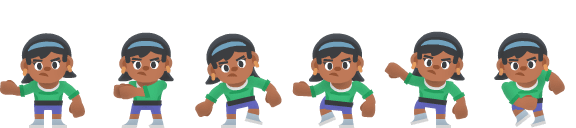
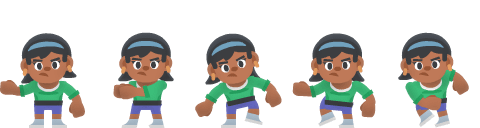
03/21/2022

diff --git a/locatingGame/src/scenes.js b/locatingGame/src/scenes.js
@@ -2035,7 +2035,7 @@ class UIScene extends Phaser.Scene {
                         let characters = creatorObj.characters;
                         let gap = width / (characters.length + 1);
 
-                        characters.forEach((chara, i) => {
+                        let charaSprites = characters.map((chara, i) => {
                             var animsCreate = () => {
                                 let frameRate = GameObjectFrame[chara].frameRate;
                                 this.anims.create({
@@ -2136,18 +2136,18 @@ class UIScene extends Phaser.Scene {
                                         .on('destroy', (form) => {
 
                                             if (form.formConfirm) {
-                                                this
-                                                    .removeInteractive()
-                                                    .play(chara + '_doubleJump');
+                                                charaSprites.forEach(chara => chara.removeInteractive());
+                                                this.play(chara + '_doubleJump');
+                                                // console.debug(charaSprites);
 
                                                 //==創建完成到大地圖
                                                 let destroyDelay = 1200;
 
                                                 scene.time.delayedCall(destroyDelay * 0.5, () => cameras.fadeOut(500, 0, 0, 0), [], this);
                                                 scene.time.delayedCall(destroyDelay, () => {
-                                                    if (1) {//===一開始不進入教學？
-                                                        scene.scene.remove();
+                                                    if (1) {//===一開始不進入教學？                                                
                                                         gameScene.scene.add(null, new UIScene('tutorial', scene), true);
+                                                        scene.time.delayedCall(destroyDelay, () => scene.scene.remove());
                                                     }
                                                     else {
                                                         gameScene.game.destroy(true, false);
@@ -2178,6 +2178,8 @@ class UIScene extends Phaser.Scene {
                                 .setScale(1.6)
                                 .setOrigin(0.45, 0.35)
                                 .setDepth(9);
+
+                            return character;
 
                         });
                     };
@@ -2292,6 +2294,7 @@ class UIScene extends Phaser.Scene {
                             const effectDir = gameObjDir + 'player/effect/';
                             const effectFrameObj = playerFrame.effect;
 
+
                             this.load.spritesheet('player_jumpDust', effectDir + 'jump_dust.png', { frameWidth: 38, frameHeight: 60 });
 
                             this.load.spritesheet('player_attackEffect', dir + 'swordSwing.png',
@@ -2300,7 +2303,13 @@ class UIScene extends Phaser.Scene {
                                 { frameWidth: effectFrameObj.jump[0], frameHeight: effectFrameObj.jump[1] });
                             this.load.spritesheet('player_runAttackEffect', dir + 'runAttackEffect.png',
                                 { frameWidth: effectFrameObj.run[0], frameHeight: effectFrameObj.run[1] });
-
+                            if (gameScene.gameData.playerStats.class)//遠程子彈
+                            {
+                                this.load.spritesheet('player_bullet1', dir + 'bullet1.png',
+                                    { frameWidth: effectFrameObj.bullet[0], frameHeight: effectFrameObj.bullet[1] });
+                                this.load.spritesheet('player_bullet2', dir + 'bullet2.png',
+                                    { frameWidth: effectFrameObj.bullet[0], frameHeight: effectFrameObj.bullet[1] });
+                            };
                         };
                         sprite();
                     };
@@ -2930,6 +2939,23 @@ class UIScene extends Phaser.Scene {
                                 repeat: 0,
                             });
 
+                            if (gameScene.gameData.playerStats.class)//遠程子彈
+                            {
+                                this.anims.create({
+                                    key: 'player_bullet1',
+                                    frames: this.anims.generateFrameNumbers('player_bullet1'),
+                                    frameRate: frameRate.attackEffect,
+                                    repeat: 0,
+                                });
+
+                                this.anims.create({
+                                    key: 'player_bullet2',
+                                    frames: this.anims.generateFrameNumbers('player_bullet2'),
+                                    frameRate: frameRate.attackEffect,
+                                    repeat: 0,
+                                });
+                            };
+
                         };
                         animsCreate();
 
@@ -3080,12 +3106,6 @@ class UIScene extends Phaser.Scene {
                                         return;
                                     };
 
-                                    //==bullet
-                                    var bullet = this.bullets.get();
-                                    if (bullet) {
-                                        bullet.body.setSize(...this.stats.bulletSize);
-                                        bullet.fire(this, this.stats.attackSpeed, this.stats.attackRange);
-                                    };
 
                                     //==anims
                                     // console.debug(this.anims);
@@ -3100,6 +3120,18 @@ class UIScene extends Phaser.Scene {
 
                                     if (currentAnims === 'player_attack' && this.anims.isPlaying) return;
                                     this.anims.play(attackAnims);
+
+                                    //==bullet
+                                    var bullet = this.bullets.get();
+                                    if (bullet) {
+                                        bullet
+                                            .setDepth(15)
+                                            .body.setSize(...this.stats.bulletSize);
+                                        bullet.fire(this, this.stats.attackSpeed, this.stats.attackRange);
+                                        if (this.stats.class)
+                                            bullet.play(isRuning ? 'player_bullet2' : 'player_bullet1', true);
+                                        // console.debug(bullet.depth);
+                                    };
 
                                 };
 
@@ -3120,14 +3152,9 @@ class UIScene extends Phaser.Scene {
                             classType: Bullet,
                             maxSize: this.player.stats.class == 0 ? 1 : 5,
                             runChildUpdate: true,
+                            // setDepth: { value: 15 },
                             // maxVelocityY: 0,
-                        }).setOrigin(1, 0).setDepth(9);
-
-                        //===init effect sprite
-                        // this.dust = this.add.sprite(0, 0)
-                        //     .setScale(2.5)
-                        //     .setOrigin(1, 0.4)
-                        //     .setDepth(9);
+                        }).setOrigin(1, 0);
 
                         this.player.attackEffect = this.add.sprite(0, 0)
                             .setScale(2)
@@ -3651,14 +3678,15 @@ class GameStartScene extends Phaser.Scene {
 
                 characters.forEach(chara => {
                     let dir = playerDir + chara + '/';
-                    const frameObj = GameObjectFrame[chara].frameObj;
+                    const playerFrame = GameObjectFrame[chara];
+                    const frameObj = playerFrame.frameObj;
+                    const effectFrameObj = playerFrame.effect;
 
                     this.load.spritesheet(chara + '_idle', dir + 'idle.png', frameObj);
                     this.load.spritesheet(chara + '_run', dir + 'run.png', frameObj);
                     this.load.spritesheet(chara + '_doubleJump', dir + 'doubleJump.png', frameObj);
                     this.load.spritesheet(chara + '_attack', dir + 'attack.png', frameObj);
-                    this.load.spritesheet(chara + '_swordSwing', dir + 'swordSwing.png', { frameWidth: 120, frameHeight: 130 });
-
+                    this.load.spritesheet(chara + '_swordSwing', dir + 'swordSwing.png', { frameWidth: effectFrameObj.attack[0], frameHeight: effectFrameObj.attack[1] });
 
                 });
 
@@ -4130,6 +4158,7 @@ class LoadingScene extends Phaser.Scene {
                     const effectDir = gameObjDir + 'player/effect/';
                     const effectFrameObj = playerFrame.effect;
 
+
                     this.load.spritesheet('player_jumpDust', effectDir + 'jump_dust.png', { frameWidth: 38, frameHeight: 60 });
 
                     this.load.spritesheet('player_attackEffect', dir + 'swordSwing.png',
@@ -4138,6 +4167,15 @@ class LoadingScene extends Phaser.Scene {
                         { frameWidth: effectFrameObj.jump[0], frameHeight: effectFrameObj.jump[1] });
                     this.load.spritesheet('player_runAttackEffect', dir + 'runAttackEffect.png',
                         { frameWidth: effectFrameObj.run[0], frameHeight: effectFrameObj.run[1] });
+
+                    if (gameData.playerStats.class)//遠程子彈
+                    {
+                        this.load.spritesheet('player_bullet1', dir + 'bullet1.png',
+                            { frameWidth: effectFrameObj.bullet[0], frameHeight: effectFrameObj.bullet[1] });
+                        this.load.spritesheet('player_bullet2', dir + 'bullet2.png',
+                            { frameWidth: effectFrameObj.bullet[0], frameHeight: effectFrameObj.bullet[1] });
+                    };
+
 
                     if (packNum == 3)
                         this.load.spritesheet('player_ultAttackEffect', effectDir + 'ult_effect.png',

diff --git a/locatingGame/src/gameObject.js b/locatingGame/src/gameObject.js
@@ -61,19 +61,19 @@ const GameObjectStats = {
         },
         femalePerson: {
             class: 1,
-            movementSpeed: 460,
+            movementSpeed: 400,
             jumpingPower: 320,
-            attackSpeed: 400,//一發持續300ms
-            attackPower: 120,
-            attackRange: 55,
-            bulletSize: [120, 130],
-            knockBackSpeed: 250,//==擊退時間固定200ms,這個速度越大擊退越遠
-            manaCost: 10,
-            manaRegen: 0.1,//per 10 ms(game update per 10ms)0.1
-            HP: 150,
-            maxHP: 150,
-            MP: 60,
-            maxMP: 60,
+            attackSpeed: 800,//一發持續300ms
+            attackPower: 80,
+            attackRange: 1000,
+            bulletSize: [30, 30],
+            knockBackSpeed: 10,//==擊退時間固定200ms,這個速度越大擊退越遠
+            manaCost: 15,
+            manaRegen: 10,//per 10 ms(game update per 10ms)0.1
+            HP: 80,
+            maxHP: 80,
+            MP: 150,
+            maxMP: 150,
         },
     },
     sidekick: {
@@ -185,29 +185,30 @@ const GameObjectFrame = {
         frameRate: {
             idle: 3,
             run: 10,
-            runAttack: 8,
+            runAttack: 10,
             attack: 10,
             specialAttack: 15,
             hurt: 8,
-            death: 6,
+            death: 4,
             jump: 4,
-            doubleJump: 3,
-            jumpAttack: 8,
+            doubleJump: 5,
+            jumpAttack: 15,
             timesUp: 4,
             cheer: 4,
             jumpDust: 15,
             attackEffect: 10,
             jumpAttackEffect: 15,
-            runAttackEffect: 8,
+            runAttackEffect: 15,
             ultAttackEffect: 7,
             pickSwing: 15,
         },
         effect: {
             attack: [120, 130],
-            jump: [150, 100],
-            run: [150, 100],
+            jump: [96, 128],
+            run: [96, 128],
             ult: [300, 150],
             pick: [120, 130],
+            bullet: [60, 60],
         },
     },
 };
@@ -445,8 +446,8 @@ const Bullet = new Phaser.Class({
         let fireDir = onXaxis ? (attacker.flipX ? -1 : 1) : 1,
             fixedRange = attacker.stats.class == 0 ? attackRange : 0,
             fireX = attacker.x + (onXaxis ? fixedRange : 0) * fireDir,
-            fireY = attacker.y + (!onXaxis ? fixedRange + 50 : 0) * fireDir;
-
+            fireY = attacker.y + (!onXaxis ? fixedRange + 50 : 10);
+        // console.debug(fireY)
         this.enableBody(true, fireX, fireY, true, true);
 
         if (attacker.stats.class != 0)
@@ -476,6 +477,8 @@ const Bullet = new Phaser.Class({
                 this.disableBody(true, true);
         }
         else {
+            if (this.attacker.name === 'player') this.angle += 10;
+
             let outOfRange = this.attackRange ?
                 Phaser.Math.Distance.BetweenPoints(this.attacker, this) > this.attackRange : false;
             let outOfWindow = !this.scene.cameras.main.worldView.contains(this.x, this.y);
@@ -1129,7 +1132,7 @@ const Player = new Phaser.Class({
                 scene.anims.create({
                     key: 'player_jumpDust',
                     frames: scene.anims.generateFrameNumbers('player_jumpDust'),
-                    frameRate: frameRate.doubleJump,
+                    frameRate: frameRate.jumpDust,
                     repeat: 0,
                 });
 
@@ -1153,6 +1156,23 @@ const Player = new Phaser.Class({
                     frameRate: frameRate.runAttackEffect,
                     repeat: 0,
                 });
+
+                if (stats.class === 1)//遠程子彈
+                {
+                    scene.anims.create({
+                        key: 'player_bullet1',
+                        frames: scene.anims.generateFrameNumbers('player_bullet1'),
+                        frameRate: frameRate.attackEffect,
+                        repeat: 0,
+                    });
+
+                    scene.anims.create({
+                        key: 'player_bullet2',
+                        frames: scene.anims.generateFrameNumbers('player_bullet2'),
+                        frameRate: frameRate.attackEffect,
+                        repeat: 0,
+                    });
+                };
 
                 if (scene.name == "boss")
                     scene.anims.create({
@@ -1188,8 +1208,9 @@ const Player = new Phaser.Class({
             //===init attack
             this.bullets = scene.physics.add.group({
                 classType: Bullet,
-                maxSize: stats.class == 0 ? 1 : 5,
+                maxSize: stats.class == 0 ? 1 : 10,
                 runChildUpdate: true,
+                // setDepth: { value: 15 },
                 // maxVelocityY: 0,
             }).setOrigin(1, 0);
 
@@ -1384,17 +1405,6 @@ const Player = new Phaser.Class({
                 return;
             };
 
-            //==bullet
-            var bullet = this.bullets.get();
-            // console.debug(bullet);
-            if (bullet) {
-                bullet.body.setSize(...this.stats.bulletSize);
-                bullet.fire(this, this.stats.attackSpeed, this.stats.attackRange);
-
-                this.statsChangeHandler({ MP: - this.stats.manaCost }, this);
-            };
-
-
             //==anims
             // console.debug(this.anims);
             let isJumping = !this.body.touching.down;
@@ -1408,6 +1418,18 @@ const Player = new Phaser.Class({
 
             if (currentAnims === 'player_attack' && this.anims.isPlaying) return;
             this.anims.play(attackAnims);
+
+            //==bullet
+            var bullet = this.bullets.get();
+            // console.debug(this.stats);
+            if (bullet) {
+                bullet.body.setSize(...this.stats.bulletSize);
+                bullet.fire(this, this.stats.attackSpeed, this.stats.attackRange);
+                if (this.stats.class)
+                    bullet.play(isRuning ? 'player_bullet2' : 'player_bullet1', true);
+                this.statsChangeHandler({ MP: - this.stats.manaCost }, this);
+                // console.debug(bullet);
+            };
 
         };
 
@@ -3334,6 +3356,7 @@ class RexForm extends RexPlugins.UI.Sizer {
                             // console.debug(playerName, avatarIndex, avatarBgColor);
 
                             gameData.playerRole = character;
+                            gameData.playerStats = { ...GameObjectStats.player[character] };
                             Object.assign(gameData.playerCustom, {
                                 avatarIndex: avatarIndex,
                                 avatarBgColor, avatarBgColor,

diff --git a/locatingGame/src/main.js b/locatingGame/src/main.js
@@ -280,7 +280,7 @@ function locatingGame() {
             };
 
             function initGameData() {
-                let playerRole = 'femalePerson';//==之後能選其他[femalePerson,maleAdventurer]
+                let playerRole = 'maleAdventurer';//==之後能選其他[femalePerson,maleAdventurer]
                 let sidekick = 'Dude';//=='Owlet,Dude,Pink'
 
                 let playerName = 'AA',
